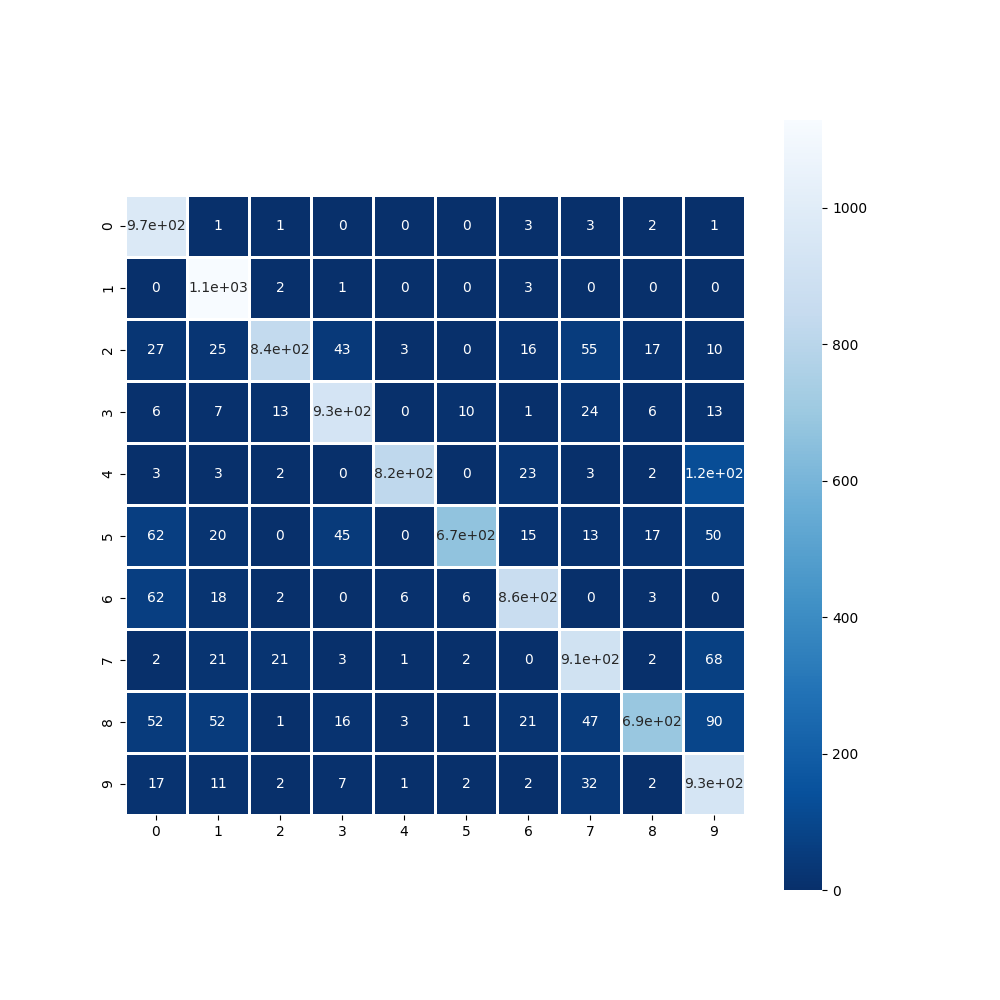
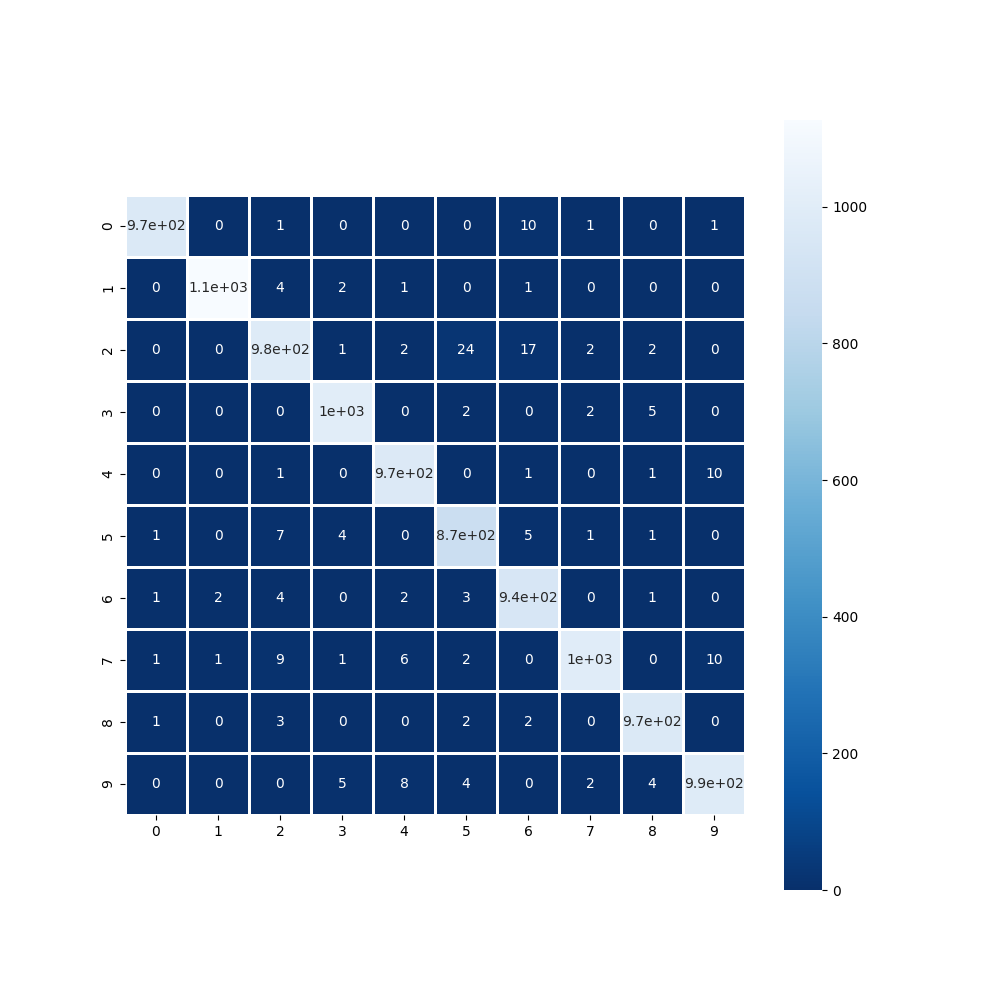
model architeture changes, iparparam optimizations

diff --git a/src/ModelConf.py b/src/ModelConf.py
@@ -1,7 +1,9 @@
-from keras.models import Sequential
-from keras.layers import Conv2D, Dense, Flatten, Dropout
-from keras.layers import MaxPooling2D
-from keras.utils import to_categorical
+from tensorflow.keras.models import Sequential
+from tensorflow.keras.layers import Conv2D, Dense, Flatten, Dropout
+from tensorflow.keras.layers import MaxPooling2D
+from tensorflow.keras.layers import MaxPool2D
+from tensorflow.keras.layers import BatchNormalization
+from tensorflow.keras.utils import to_categorical
 import numpy as np
 import pickle
 import os
@@ -44,27 +46,21 @@ class ModelConf:
         self.x_test = self.x_test / 255
         self.y_train = to_categorical(self.y_train, self.classes_number)
         self.y_test = to_categorical(self.y_test, self.classes_number)
+        
         if self.dataset_name == 'mnist':
             self.x_train = self.x_train.reshape(self.x_train.shape[0],self.x_train.shape[1], self.x_train.shape[2],1)
             self.x_test = self.x_test.reshape(self.x_test.shape[0],self.x_test.shape[1], self.x_test.shape[2],1)
 
     def generate_dataset_client_partition(self):
-        #random_numbers = np.sort(np.random.multinomial(self.x_train.shape[0], np.ones(globalVariable.CLIENTS_NUM)/globalVariable.CLIENTS_NUM))
        
-        #print( random_numbers)
         dataset_partition_dir = f"dataset/{self.dataset_name}_partitions"
         if not os.path.exists(dataset_partition_dir):
             os.makedirs(dataset_partition_dir)   
-                        
-        # x_train_splitted = np.array_split(self.x_train, random_numbers) 
-        # y_train_splitted = np.array_split(self.y_train, random_numbers) 
+            
         x_train_splitted = np.array_split(self.x_train, globalVariable.CLIENTS_NUM) 
-        y_train_splitted = np.array_split(self.y_train, globalVariable.CLIENTS_NUM) 
+        y_train_splitted = np.array_split(self.y_train, globalVariable.CLIENTS_NUM)
+
         for i in range(globalVariable.CLIENTS_NUM):
-            # print("----------------------------")
-            # print(x_train_splitted[i].shape)
-            # print(y_train_splitted[i].shape)
-            # print("----------------------------")
             with open(os.path.join(dataset_partition_dir, f"x_train_partition_of_{i}.pickle"), "wb") as f:
                 pickle.dump(x_train_splitted[i],f)
                 print(x_train_splitted[i].shape)
@@ -90,14 +86,37 @@ class ModelConf:
     def get_model(self):
         # build the model
         model = Sequential()
-        model.add(Conv2D(64, self.kernel_size, input_shape=self.input_shape, activation="relu"))
-        model.add(MaxPooling2D(pool_size=(2, 2)))
-        model.add(Dropout(0.5))
-        model.add(Conv2D(64, self.kernel_size, input_shape=self.input_shape, activation="relu"))
-        model.add(MaxPooling2D(pool_size=(2, 2)))
+        
+        #initial arch
+        # model.add(Conv2D(64, self.kernel_size, input_shape=self.input_shape, activation="relu"))
+        # model.add(MaxPooling2D(pool_size=(2, 2)))
+        # model.add(Dropout(0.5))
+        # model.add(Conv2D(64, self.kernel_size, input_shape=self.input_shape, activation="relu"))
+        # model.add(MaxPooling2D(pool_size=(2, 2)))
+        # model.add(Dropout(0.25))
+        # model.add(Flatten())
+        # model.add(Dense(256, activation="relu"))
+        # model.add(Dense(self.classes_number, activation="softmax"))
+
+        model.add(Conv2D(filters=32, kernel_size=self.kernel_size, input_shape=self.input_shape, activation='relu', padding='same'))
+        model.add(BatchNormalization())
+        model.add(MaxPool2D(pool_size=(2, 2)))
         model.add(Dropout(0.25))
+
+        model.add(Conv2D(filters=64, kernel_size=self.kernel_size, input_shape=self.input_shape, activation='relu', padding='same'))
+        model.add(BatchNormalization())
+        model.add(MaxPool2D(pool_size=(2, 2)))
+        model.add(Dropout(0.25))
+
+        model.add(Conv2D(filters=128, kernel_size=self.kernel_size, input_shape=self.input_shape, activation='relu', padding='same'))
+        model.add(BatchNormalization())
+        model.add(MaxPool2D(pool_size=(2, 2)))
+        model.add(Dropout(0.25))
+
         model.add(Flatten())
-        model.add(Dense(256, activation="relu"))
-        model.add(Dense(self.classes_number, activation="softmax"))
+        model.add(Dense(128, activation='relu'))
+        model.add(Dropout(0.25))
+        model.add(Dense(self.classes_number, activation='softmax'))
+        
         model.compile(loss="categorical_crossentropy", optimizer="adam", metrics=["accuracy"])
         return model

diff --git a/src/FlowerClient.py b/src/FlowerClient.py
@@ -2,6 +2,8 @@ import flwr as fl
 import numpy as np
 import gc
 import copy
+from tensorflow.keras.preprocessing.image import ImageDataGenerator
+from tensorflow.keras.callbacks import EarlyStopping
 
 import ModelConf
 import globalVariable as gv
@@ -10,31 +12,42 @@ from src import logger
 
 
 class FlowerClient(fl.client.NumPyClient):
-    EPOCHS = 15
-    BATCH_SIZE = 100
-    STEPS_FOR_EPOCHS = 5
-    VERBOSE = 0
+
 
     def __init__(self, model_conf: ModelConf.ModelConf, cid, client_partition_training_data=None) -> None:
+        self.cid = cid
+        print(f'initializing client{self.cid}')
         self.model_conf = model_conf
-        (x_train, y_train) = client_partition_training_data
-        self.x_train = copy.deepcopy(x_train)
-        print(self.x_train.shape)
-        if model_conf.poisoning and (cid in gv.POISONERS_CLIENTS_CID):
-            print(f'client {cid} starting label flipping poisoning')
-            logger.info(f'client {cid} starting label flipping poisoning')
-            self.run_poisoning(y_train)
-        else:
-            self.y_train = copy.deepcopy(y_train)
-
-        del x_train
-        del y_train
-        gc.collect()
-
         self.model = self.model_conf.get_model()
+        self.x_train, self.y_train = client_partition_training_data
+        
+        self.epochs = 25 if self.model_conf.dataset_name != 'mnist' else 5
+        self.batch_size = 250 if self.model_conf.dataset_name != 'mnist' else 50
+        self.steps_for_epoch = self.x_train.shape[0] // self.batch_size
+        self.verbose = 0
     
-    def run_poisoning(self,y_train):
-        self.y_train = np.random.permutation(y_train)
+        print(self.x_train.shape)
+
+        
+        if model_conf.poisoning and (self.cid in gv.POISONERS_CLIENTS_CID):
+            self.run_poisoning()
+
+        self.generate_data()
+
+        
+    def generate_data(self):
+        self.data_generator = ImageDataGenerator(rotation_range=15,
+            width_shift_range=0.1,
+            height_shift_range=0.1,
+            horizontal_flip=True
+            )
+        self.train_set_increased = self.data_generator.flow(self.x_train, self.y_train,self.batch_size)
+        
+        
+        
+    def run_poisoning(self):
+        print(f'client {self.cid} starting label flipping poisoning')
+        self.y_train = np.random.permutation(self.y_train)
         for item in self.x_train:
             item = self.add_perturbation(item)
 
@@ -59,15 +72,24 @@ class FlowerClient(fl.client.NumPyClient):
         return self.model.get_weights()
 
     def fit(self, parameters, config):
-        self.model.set_weights(parameters)
-        self.model.fit(self.x_train, self.y_train, epochs=FlowerClient.EPOCHS, batch_size=FlowerClient.BATCH_SIZE,
-                       steps_per_epoch=FlowerClient.STEPS_FOR_EPOCHS)
+        print(f'client {self.cid} fitting model')
+        self.model.set_weights(parameters)        
+        
+       # early_stop = EarlyStopping(monitor='val_loss', patience=2)
+        self.model.fit(self.train_set_increased,
+            epochs=self.epochs,
+            steps_per_epoch=self.steps_for_epoch,
+            validation_data=(self.model_conf.x_test,self.model_conf.y_test), 
+            #callbacks=[early_stop],
+            #batch_size=batch_size,
+            )
         return self.model.get_weights(), len(self.x_train), {}
 
     def evaluate(self, parameters, config):
+        print(f'client {self.cid} evaluating model')
         self.model.set_weights(parameters)
         loss, accuracy = self.model.evaluate(self.model_conf.x_test, self.model_conf.y_test,
-                                             verbose=FlowerClient.VERBOSE)
+                                             verbose=self.verbose)
         return loss, len(self.model_conf.x_test), {"accuracy": float(accuracy)}
 
 

diff --git a/src/main.py b/src/main.py
@@ -1,6 +1,6 @@
-from keras.datasets import mnist
-from keras.datasets import cifar10
-from keras.datasets import cifar100
+from tensorflow.keras.datasets import mnist
+from tensorflow.keras.datasets import cifar10
+from tensorflow.keras.datasets import cifar100
 from flwr.simulation.ray_transport.utils import enable_tf_gpu_growth
 import time
 import gc
@@ -20,20 +20,6 @@ enable_tf_gpu_growth()
 #
 #####################################
 
-
-# cifar10
-def start_cifa10(poisoning=False):
-    print(f"starting cifar10 dataset {'poisoned' if poisoning else ''}")
-    logger.info(f"starting cifar10 dataset {'poisoned' if poisoning else ''}")
-    cifar10_model_conf = mf.ModelConf('cifar10', cifar10, 10, (3, 3), (32, 32, 3), poisoning)
-    server_cifar10 = Server.Server(cifar10_model_conf)
-    server_cifar10.start_simulation()
-    del server_cifar10
-    del cifar10_model_conf
-    print(f"finish cifar10 {'poisoned' if poisoning else ''}")
-    logger.info(f"finish cifar10 {'poisoned' if poisoning else ''}")
-
-
 # mnist
 def start_mnist(poisoning=False):
     print(f"starting mnist dataset {'poisoned' if poisoning else ''}")
@@ -45,13 +31,26 @@ def start_mnist(poisoning=False):
     del mnist_model_conf
     print(f"finish mnist {'poisoned' if poisoning else ''}")
     logger.info(f"finish mnist {'poisoned' if poisoning else ''}")
+    
+    
+# cifar10
+def start_cifa10(poisoning=False):
+    print(f"starting cifar10 dataset {'poisoned' if poisoning else ''}")
+    logger.info(f"starting cifar10 dataset {'poisoned' if poisoning else ''}")
+    cifar10_model_conf = mf.ModelConf('cifar10', cifar10, 10, (5, 5), (32, 32, 3), poisoning)
+    server_cifar10 = Server.Server(cifar10_model_conf)
+    server_cifar10.start_simulation()
+    del server_cifar10
+    del cifar10_model_conf
+    print(f"finish cifar10 {'poisoned' if poisoning else ''}")
+    logger.info(f"finish cifar10 {'poisoned' if poisoning else ''}")
 
 
 # cifar100
 def start_cifar100(poisoning=False):
     print(f"starting cifar100 dataset {'poisoned' if poisoning else ''}")
     logger.info(f"starting cifar100 dataset {'poisoned' if poisoning else ''}")
-    cifar100_model_conf = mf.ModelConf('cifar100', cifar100, 100, (3, 3), (32, 32, 3), poisoning)
+    cifar100_model_conf = mf.ModelConf('cifar100', cifar100, 100, (5, 5), (32, 32, 3), poisoning)
     server_cifar100 = Server.Server(cifar100_model_conf)
     server_cifar100.start_simulation()
     del server_cifar100
@@ -71,15 +70,14 @@ def clear_ram():
 #       whitout poisoning
 #
 #####################################
-""" start_cifa10(False)
-clear_ram() """
+start_mnist(False)
+clear_ram()
 
-""" start_mnist(False)
-clear_ram() """
+# start_cifa10(False)
+# clear_ram()
 
-""" 
-start_cifar100(False)
-clear_ram() """
+# start_cifar100(False)
+# clear_ram()
 
 
 #####################################
@@ -87,11 +85,11 @@ clear_ram() """
 #       whit poisoning
 #
 #####################################
-""" start_cifa10(True)
-clear_ram() """
-
 start_mnist(True)
 clear_ram()
-""" 
-start_cifar100(True)
-clear_ram() """
+
+# start_cifa10(True)
+# clear_ram()
+
+# start_cifar100(True)
+# clear_ram()

diff --git a/src/datasetLabelMapping.py b/src/datasetLabelMapping.py
@@ -1,7 +1,4 @@
 cifar10Label = ['airplane', 'auto', 'bird', 'cat', 'deer', 'dog', 'frog', 'horse', 'ship', 'truck']
-# cifar10LabelMap = {'airplane' : 0,  'auto' : 1,  'bird' : 2,  'cat' : 3,  'deer' : 4,  'dog' : 5,  'frog' : 6,  'horse' : 7,  'ship' : 8,  'truck' : 9}
-cifar10LabelMap = {0: 'airplane', 1: 'auto', 2: 'bird', 3: 'cat', 4: 'deer', 5: 'dog', 6: 'frog', 7: 'horse', 8: 'ship',
-                   9: 'truck'}
 
 cifar100FineLabel = [
     'apple',
@@ -105,32 +102,3 @@ cifar100FineLabel = [
     'woman',
     'worm',
 ]
-
-cifar100CoarseLabel = {
-    'aquatic mammals': ['beaver', 'dolphin', 'otter', 'seal', 'whale'],
-    'fish': ['aquarium_fish', 'flatfish', 'ray', 'shark', 'trout'],
-    'flowers': ['orchid', 'poppy', 'rose', 'sunflower', 'tulip'],
-    'food containers': ['bottle', 'bowl', 'can', 'cup', 'plate'],
-    'fruit and vegetables': ['apple', 'mushroom', 'orange', 'pear',
-                             'sweet_pepper'],
-    'household electrical device': ['clock', 'computer_keyboard', 'lamp',
-                                    'telephone', 'television'],
-    'household furniture': ['bed', 'chair', 'couch', 'table', 'wardrobe'],
-    'insects': ['bee', 'beetle', 'butterfly', 'caterpillar', 'cockroach'],
-    'large carnivores': ['bear', 'leopard', 'lion', 'tiger', 'wolf'],
-    'large man-made outdoor things': ['bridge', 'castle', 'house', 'road',
-                                      'skyscraper'],
-    'large natural outdoor scenes': ['cloud', 'forest', 'mountain', 'plain',
-                                     'sea'],
-    'large omnivores and herbivores': ['camel', 'cattle', 'chimpanzee',
-                                       'elephant', 'kangaroo'],
-    'medium-sized mammals': ['fox', 'porcupine', 'possum', 'raccoon', 'skunk'],
-    'non-insect invertebrates': ['crab', 'lobster', 'snail', 'spider', 'worm'],
-    'people': ['baby', 'boy', 'girl', 'man', 'woman'],
-    'reptiles': ['crocodile', 'dinosaur', 'lizard', 'snake', 'turtle'],
-    'small mammals': ['hamster', 'mouse', 'rabbit', 'shrew', 'squirrel'],
-    'trees': ['maple_tree', 'oak_tree', 'palm_tree', 'pine_tree',
-              'willow_tree'],
-    'vehicles 1': ['bicycle', 'bus', 'motorcycle', 'pickup_truck', 'train'],
-    'vehicles 2': ['lawn_mower', 'rocket', 'streetcar', 'tank', 'tractor'],
-}

diff --git a/src/Server.py b/src/Server.py
@@ -59,6 +59,7 @@ class Server:
                 parameters: fl.common.NDArrays,
                 config: Dict[str, fl.common.Scalar],
         ) -> Optional[Tuple[float, Dict[str, fl.common.Scalar]]]:
+            print(f'round {server_round} of dataset {self.model_conf.dataset_name}')
             model = model_conf.get_model()
             model.set_weights(parameters)  # Update model with the latest parameters
             loss, accuracy = model.evaluate(model_conf.x_test, model_conf.y_test)

diff --git a/src/globalVariable.py b/src/globalVariable.py
@@ -1,6 +1,6 @@
 import numpy as np
 
 CLIENTS_NUM = 10
-ROUNDS_NUM = 1
+ROUNDS_NUM = 5
 POISONERS_CLIENTS_CID =  np.random.randint(0, CLIENTS_NUM - 1, round((CLIENTS_NUM * 20) / 100))
 POISONERS_CLIENTS = 2
